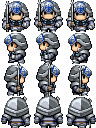
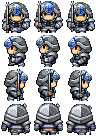
No more weird artifacts in art for players and minions!

diff --git a/kingslayer/src/game/model/game/model/worldObject/entity/drawStrat/DirectionAnimationDrawStrat.java b/kingslayer/src/game/model/game/model/worldObject/entity/drawStrat/DirectionAnimationDrawStrat.java
@@ -116,8 +116,8 @@ public abstract class DirectionAnimationDrawStrat extends DrawStrat {
 
 
             gc.drawImage(this.getImage(entity),
-                    toDrawCoords(p.x),
-                    toDrawCoords(p.y),
+                    toDrawCoords(getWidth()) * p.x,
+                    toDrawCoords(getHeight()) * p.y,
                     toDrawCoords(getWidth()),
                     toDrawCoords(getHeight()),
                     toDrawCoords(entity.getX() - entity.getHitbox().getWidth() / 2),
@@ -155,8 +155,8 @@ public abstract class DirectionAnimationDrawStrat extends DrawStrat {
 
             Point p = imageMap.get(drawData.imageNum + "" + drawData.direction);
             gc.drawImage(this.getImage(entity),
-                toDrawCoords(p.x),
-                toDrawCoords(p.y),
+                toDrawCoords(getWidth()) * p.x, //toDrawCoords(p.x) + 2 * p.x,
+                toDrawCoords(getHeight()) * p.y,//toDrawCoords(p.y) + 2 * p.y,
                 toDrawCoords(getWidth()),
                 toDrawCoords(getHeight()),
                 toDrawCoords(entity.getX() - entity.getHitbox().getWidth() / 2),
@@ -171,7 +171,7 @@ public abstract class DirectionAnimationDrawStrat extends DrawStrat {
     }
 
     double getHeight() {
-        return 1;
+        return 1.0625;
     }
 
     public double getDrawZ(Entity entity) {
@@ -326,6 +326,16 @@ public abstract class DirectionAnimationDrawStrat extends DrawStrat {
                     return null;
             }
 
+        }
+
+        @Override
+        public double getWidth() {
+            return 0.78125;
+        }
+
+        @Override
+        public double getHeight() {
+            return 0.84375;
         }
     }
 
